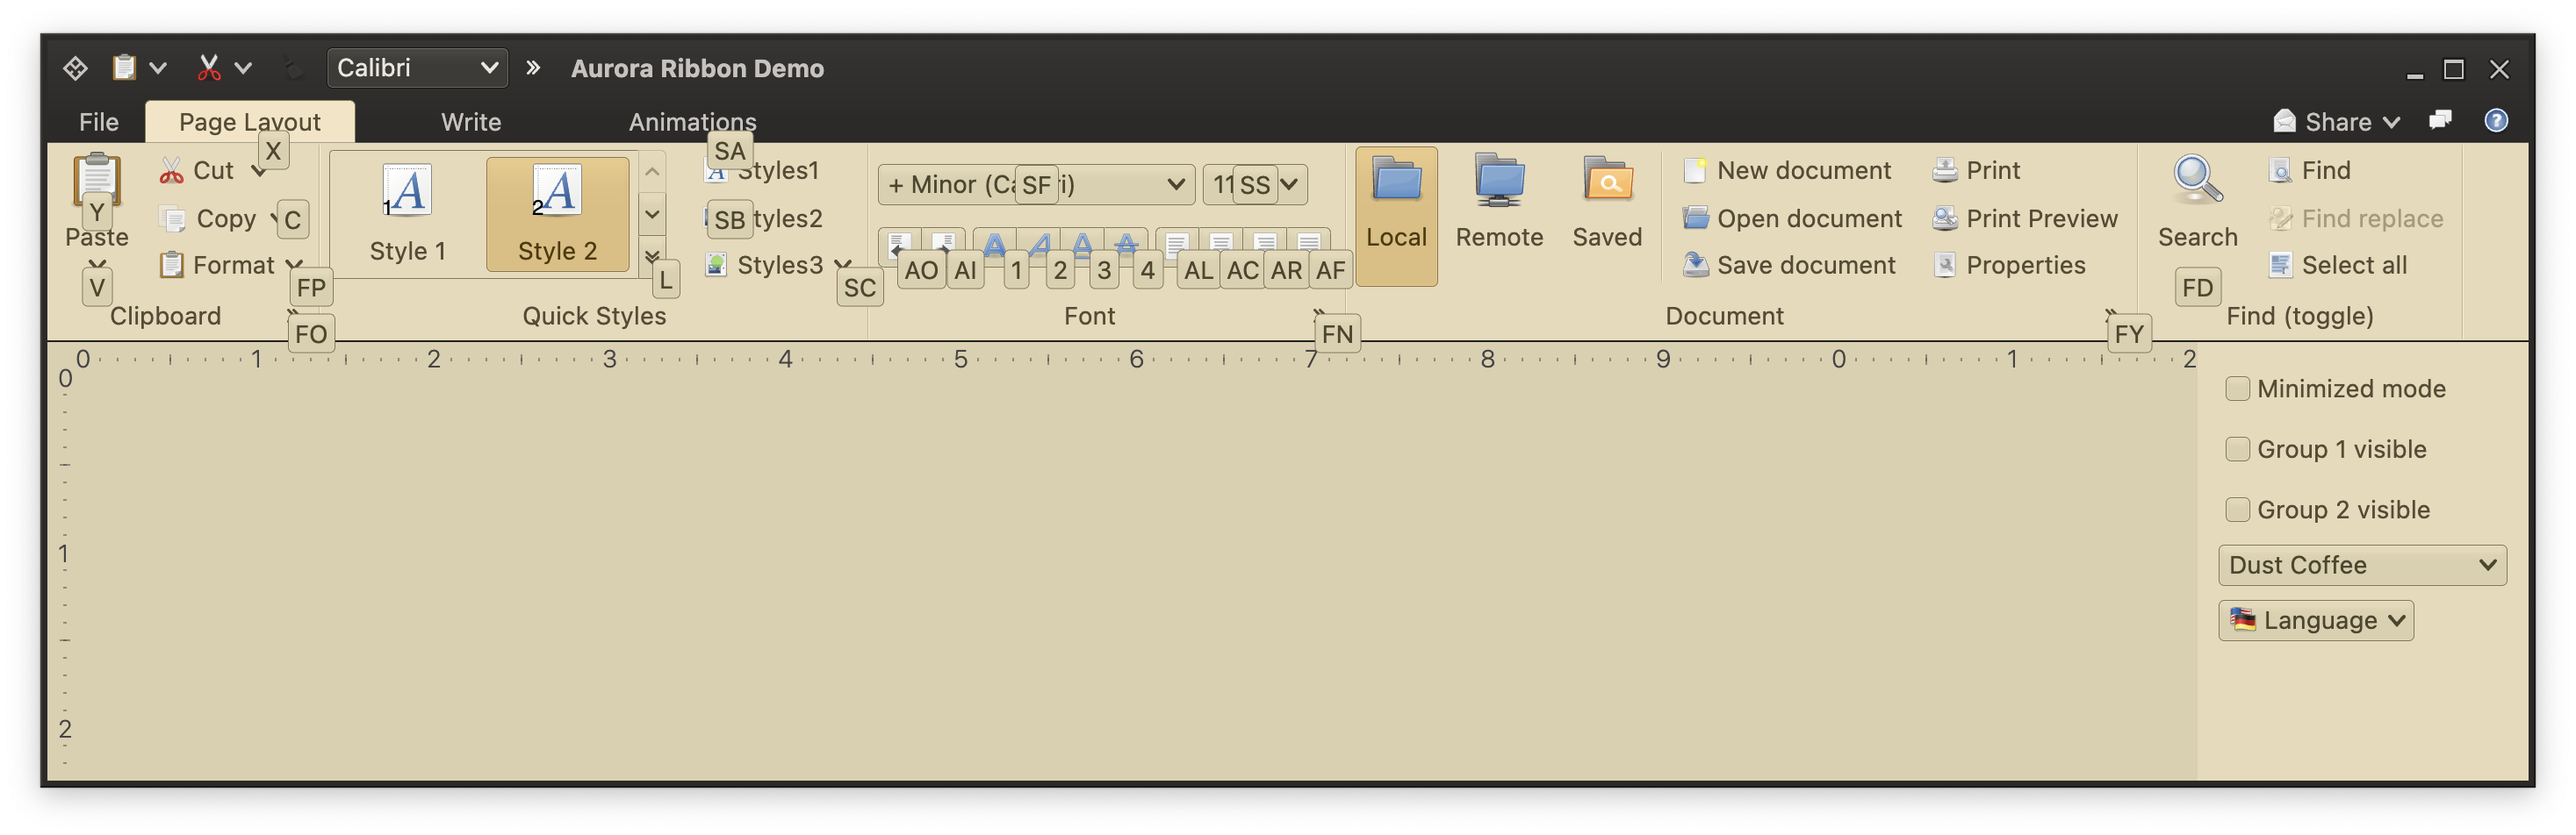
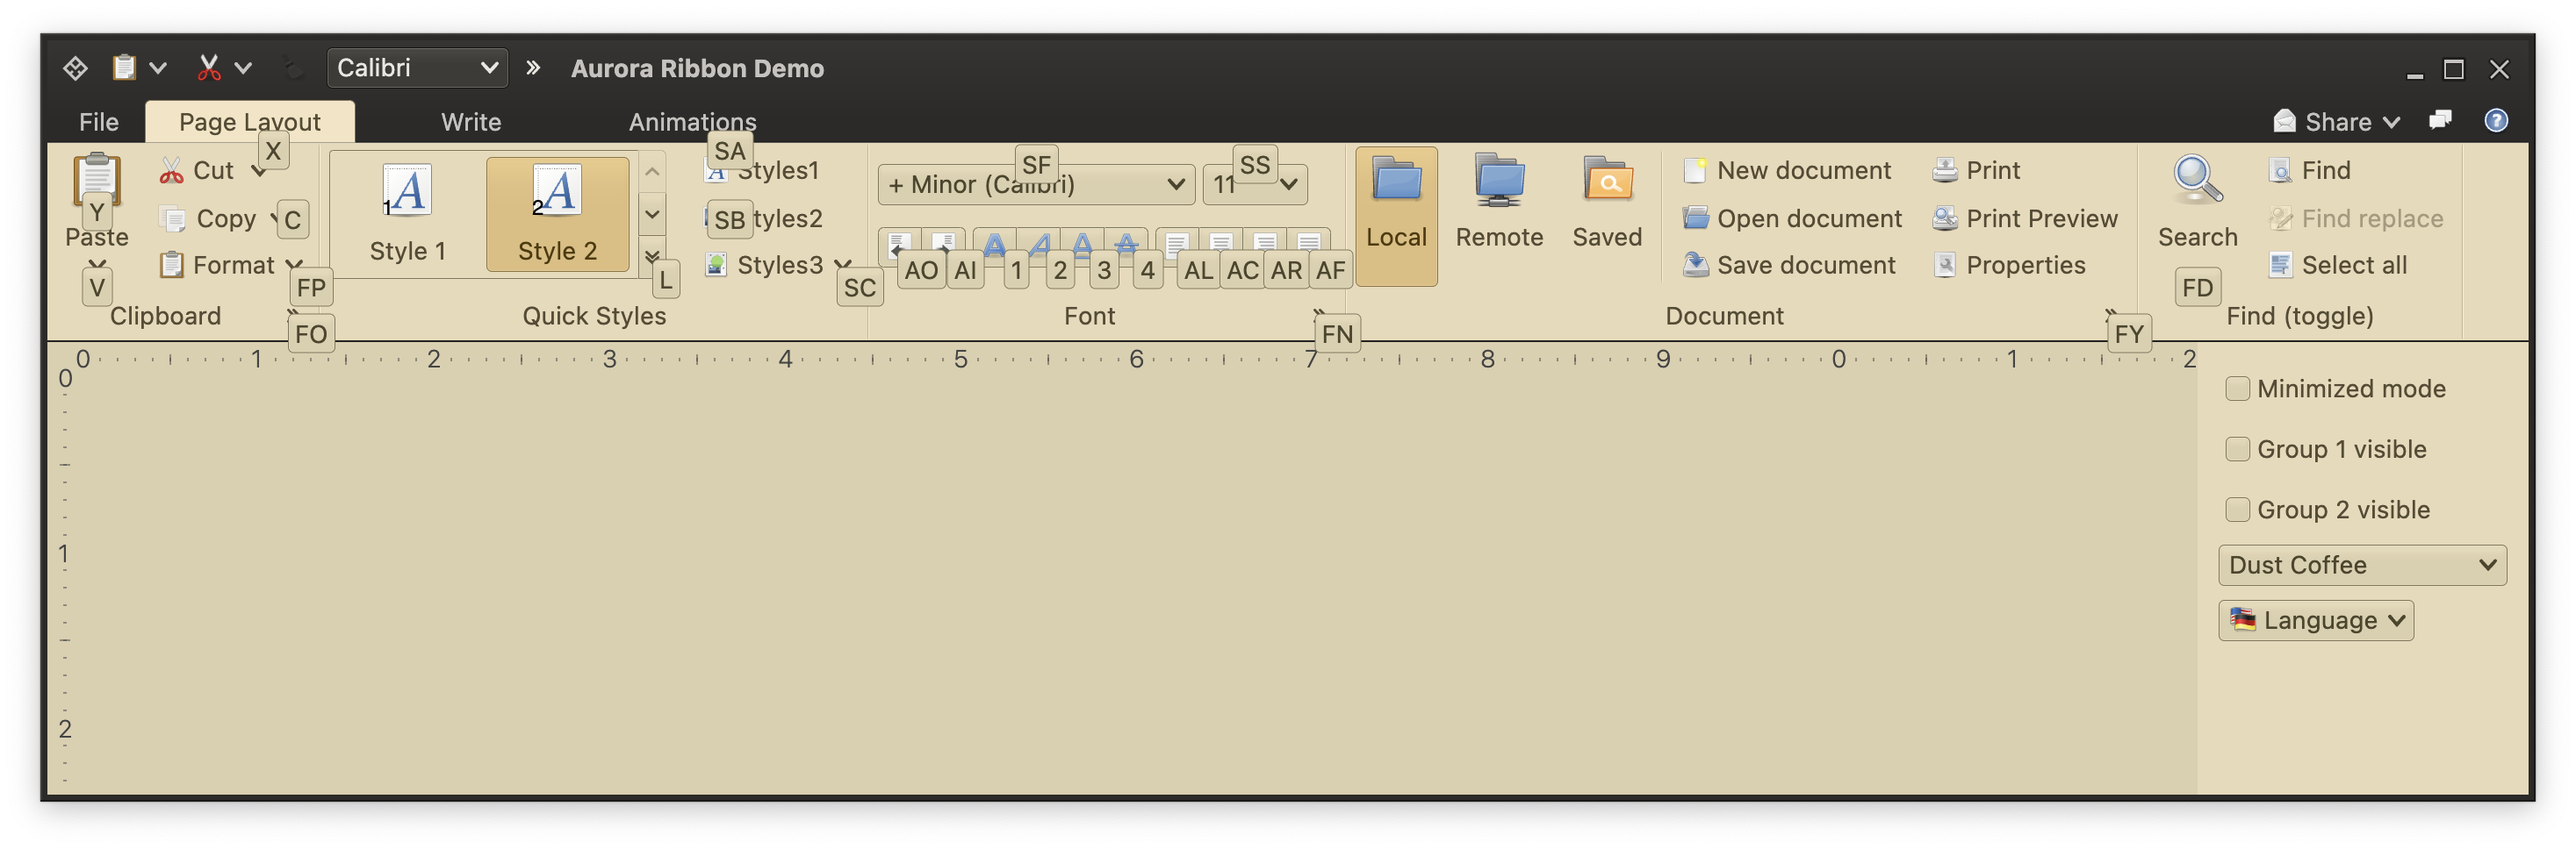
Vertical adjustment to key tips of ribbon meta components
For #56

diff --git a/component/src/desktopMain/kotlin/org/pushingpixels/aurora/component/ribbon/RibbonMetaComponent.kt b/component/src/desktopMain/kotlin/org/pushingpixels/aurora/component/ribbon/RibbonMetaComponent.kt
@@ -350,7 +350,11 @@ internal fun <C : ContentModel, P : PresentationModel> RibbonMetaComponent(
                         Offset(if (layoutDirection == LayoutDirection.Ltr) fullWidth.toFloat() else 0.0f, height.toFloat())
                     } else {
                         // In a ribbon band
-                        Offset(componentMid, height / 2.0f)
+                        getAdjustedAnchor(
+                            anchor = Offset(componentMid, height / 2.0f),
+                            row = bandRow,
+                            rowHeight = bandRowHeight
+                        )
                     }
                     KeyTipTracker.trackKeyTipOffset(
                         originalProjection,
